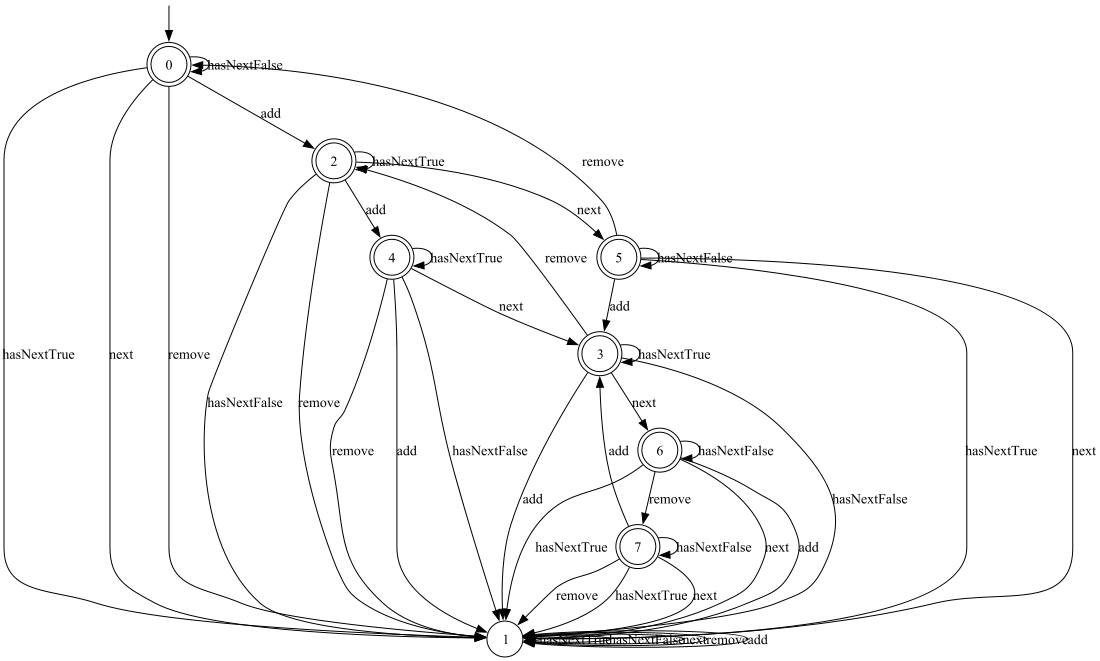
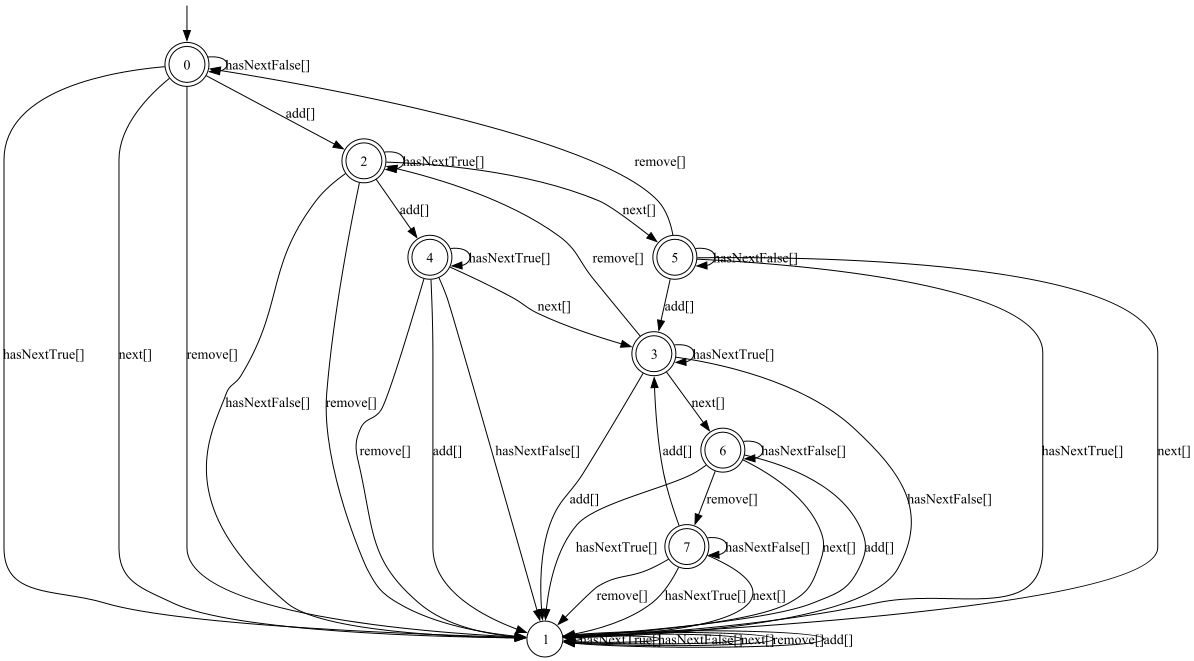
Modified to handle RALib Parameterized Symbols

diff --git a/src/main/java/org/example/controller/Controller.java b/src/main/java/org/example/controller/Controller.java
@@ -5,50 +5,47 @@ import de.learnlib.algorithms.lstar.dfa.ClassicLStarDFABuilder;
 import de.learnlib.api.oracle.MembershipOracle;
 import de.learnlib.oracle.equivalence.DFAWpMethodEQOracle;
 import de.learnlib.api.query.DefaultQuery;
+import de.learnlib.ralib.words.PSymbolInstance;
 import guru.nidi.graphviz.engine.Format;
 import guru.nidi.graphviz.engine.Graphviz;
 import net.automatalib.words.Alphabet;
-import net.automatalib.words.impl.GrowingMapAlphabet;
 import net.automatalib.automata.fsa.DFA;
 import net.automatalib.serialization.dot.GraphDOT;
 import org.checkerframework.checker.nullness.qual.Nullable;
-import org.example.model.Function;
+import org.example.model.Functions;
 import org.example.model.IterOracle;
-import org.example.view.MainFrame;
 
 import java.io.File;
 import java.io.FileWriter;
 import java.io.IOException;
-import java.util.Arrays;
 
 public class Controller {
 
-    private final Alphabet<Function> alphabet;
+    private final Alphabet<PSymbolInstance> alphabet;
     //private final MainFrame frame;
     public Controller() {
-        this.alphabet = new GrowingMapAlphabet<>();
-        this.alphabet.addAll(Arrays.asList(Function.values()));
+        this.alphabet = new Functions().getAlphabet();
         //this.frame = new MainFrame(this);
     }
 
-    public Alphabet<Function> getAlphabet() {
+    public Alphabet<PSymbolInstance> getAlphabet() {
         return alphabet;
     }
 
-    private DFA<?, Function> learn(MembershipOracle.DFAMembershipOracle<Function> mqOracle) {
+    private DFA<?, PSymbolInstance> learn(MembershipOracle.DFAMembershipOracle<PSymbolInstance> mqOracle) {
         // construct L* instance
-        ClassicLStarDFA<Function> learner =
-                new ClassicLStarDFABuilder<Function>().withAlphabet(alphabet) // input alphabet
+        ClassicLStarDFA<PSymbolInstance> learner =
+                new ClassicLStarDFABuilder<PSymbolInstance>().withAlphabet(alphabet) // input alphabet
                         .withOracle(mqOracle) // membership oracle
                         .create();
-        DFAWpMethodEQOracle<Function> eqOracle = new DFAWpMethodEQOracle<>(mqOracle, 2);
+        DFAWpMethodEQOracle<PSymbolInstance> eqOracle = new DFAWpMethodEQOracle<>(mqOracle, 2);
 
         learner.startLearning();
         while (true) {
-            DFA<?, Function> hyp = learner.getHypothesisModel();
+            DFA<?, PSymbolInstance> hyp = learner.getHypothesisModel();
 
             // search for counterexample
-            @Nullable DefaultQuery<Function, Boolean> o = eqOracle.findCounterExample(hyp, alphabet);
+            @Nullable DefaultQuery<PSymbolInstance, Boolean> o = eqOracle.findCounterExample(hyp, alphabet);
             System.out.println("Counterexample: " + o);
 
             // no counter example -> learning is done
@@ -61,7 +58,7 @@ public class Controller {
         return learner.getHypothesisModel();
     }
 
-    private void showResults(DFA<?, Function> dfa, String file) {
+    private void showResults(DFA<?, PSymbolInstance> dfa, String file) {
         // report results
         System.out.println("-------------------------------------------------------");
         System.out.println();
@@ -79,7 +76,7 @@ public class Controller {
     public void start() {
         showResults(learn(new IterOracle()), "exception");
 
-        //final IterOracle iterOracle = new IterOracle();
+        final IterOracle iterOracle = new IterOracle();
         //iterOracle.setSilentFailAddTrue();
         //showResults(learn(iterOracle), "silent");
 

diff --git a/src/main/java/org/example/controller/Runner.java b/src/main/java/org/example/controller/Runner.java
@@ -2,6 +2,9 @@ package org.example.controller;
 
 import de.learnlib.api.oracle.EquivalenceOracle;
 import de.learnlib.api.query.DefaultQuery;
+import de.learnlib.oracle.equivalence.DFARandomWMethodEQOracle;
+import de.learnlib.oracle.equivalence.RandomWordsEQOracle;
+import de.learnlib.oracle.equivalence.mealy.RandomWalkEQOracle;
 import de.learnlib.ralib.automata.RegisterAutomaton;
 import de.learnlib.ralib.data.Constants;
 import de.learnlib.ralib.data.DataType;
@@ -23,7 +26,6 @@ import de.learnlib.ralib.tools.theories.IntegerEqualityTheory;
 import de.learnlib.ralib.words.InputSymbol;
 import de.learnlib.ralib.words.PSymbolInstance;
 import de.learnlib.ralib.words.ParameterizedSymbol;
-//import org.example.model.IterRAOracle;
 import org.example.rahelper.RandomWalk;
 
 import java.io.File;
@@ -34,10 +36,8 @@ import java.util.Random;
 
 public class Runner {
 
-    /*public static final InputSymbol ADD = new InputSymbol("add", new DataType[]{doubleType});
-    public static final InputSymbol NEXT = new InputSymbol("next", new DataType[]{doubleType});
 
-    private Hypothesis ralib_learn() {
+    /*private Hypothesis ralib_learn() {
         Map<DataType, Theory> teachers = new LinkedHashMap<>();
         DataType dataType = new DataType("INTEGER", Integer.class);
         teachers.put(dataType, new IntegerEqualityTheory(dataType));
@@ -53,11 +53,12 @@ public class Runner {
             SDTLogicOracle slo = new MultiTheorySDTLogicOracle(consts, solver);
 
             TreeOracleFactory hypFactory = (RegisterAutomaton hyp) ->
-                    new MultiTheoryTreeOracle(..., teachers,
+                    new MultiTheoryTreeOracle(dwOracle, teachers,
                             new Constants(), solver);
 
-            RaLearningAlgorithm learner = new RaStar(mto, hypFactory, slo, consts, I_PUSH, I_POP);
+            RaLearningAlgorithm learner = new RaStar(mto, hypFactory, slo, consts, false, I_PUSH, I_POP);
             DefaultQuery<PSymbolInstance, Boolean> ce = null;
+
             IOEquivalenceOracle eqOracle = new RandomWalk(random, ioCache,
                     0.1, // reset probability
                     0.8, // prob. of choosing a fresh data value
@@ -65,7 +66,8 @@ public class Runner {
                     6, // max depth
                     teachers,
                     consts, Arrays.asList(I_PUSH, I_POP));
-
+//            Use instead
+            RandomWordsEQOracle
 
             int check = 0;
             while (check < 100) {
@@ -91,19 +93,19 @@ public class Runner {
 
     }*/
 
-    private static void ralib_learn() {
+    /*private static void ralib_learn() {
         ClassAnalyzer analyzer = new ClassAnalyzer();
         try {
             analyzer.setup(new Configuration(new File("config")));
             analyzer.run();
         } catch (Exception e) {
-            throw new RuntimeException(e);
+            throw new RuntimeException(e);⁄
         }
-    }
+    }*/
 
     public static void main(String[] args) {
         Controller app = new Controller();
         app.start();
-        ralib_learn();
+//        ralib_learn();
     }
 }

diff --git a/src/main/java/org/example/model/IterOracle.java b/src/main/java/org/example/model/IterOracle.java
@@ -1,13 +1,16 @@
 package org.example.model;
 
 
-import de.learnlib.api.oracle.SingleQueryOracle.SingleQueryOracleDFA;
-import net.automatalib.words.Word;
+import de.learnlib.api.oracle.MembershipOracle;
+import de.learnlib.api.query.Query;
+import de.learnlib.ralib.words.PSymbolInstance;
 
+import java.util.Collection;
 import java.util.NoSuchElementException;
 
-public class IterOracle implements SingleQueryOracleDFA<Function> {
+public class IterOracle implements MembershipOracle.DFAMembershipOracle<PSymbolInstance> {
 
+    private Functions functions = new Functions();
     private boolean silentFailAdd = false;
     public void setSilentFailAddTrue() {
         this.silentFailAdd = true;
@@ -19,8 +22,9 @@ public class IterOracle implements SingleQueryOracleDFA<Function> {
         this.iterator = new BoundedIterator<>();
     }
 
-    private Boolean step(Function function) {
-        switch (function) {
+    private Boolean step(PSymbolInstance function) {
+
+        switch (functions.getFunction(function)) {
             case hasNextTrue -> {
                 return this.iterator.hasNext();
             }
@@ -55,9 +59,21 @@ public class IterOracle implements SingleQueryOracleDFA<Function> {
     }
 
     @Override
-    public Boolean answerQuery(Word<Function> prefix, Word<Function> suffix) {
+    public void processQuery(Query<PSymbolInstance, Boolean> query) {
         iterator.reset();
-        return prefix.concat(suffix).stream()
-                .allMatch(this::step);
+        for (PSymbolInstance input : query.getInput().asList()) {
+            if (!step(input)) {
+                query.answer(false);
+                return;
+            }
+        }
+        query.answer(true);
+    }
+
+    @Override
+    public void processQueries(Collection<? extends Query<PSymbolInstance, Boolean>> collection) {
+        for (Query<PSymbolInstance, Boolean> query : collection) {
+            processQuery(query);
+        }
     }
 }

diff --git a/src/main/java/org/example/model/Functions.java b/src/main/java/org/example/model/Functions.java
@@ -1,0 +1,42 @@
+package org.example.model;
+
+import de.learnlib.ralib.words.PSymbolInstance;
+import de.learnlib.ralib.words.ParameterizedSymbol;
+import net.automatalib.words.Alphabet;
+import net.automatalib.words.impl.GrowingMapAlphabet;
+
+import java.util.LinkedHashMap;
+import java.util.Map;
+
+class FunctionSymbol extends ParameterizedSymbol {
+    public FunctionSymbol(String name) {
+        super(name);
+    }
+}
+
+public class Functions {
+    private final Map<PSymbolInstance, Function> map = new LinkedHashMap<>();
+    public enum Function {
+        hasNextTrue,
+        hasNextFalse,
+        next,
+        remove,
+        add
+    }
+    public Functions() {
+        for (Function f : Function.values()) {
+            map.put(new PSymbolInstance(new FunctionSymbol(f.toString())), f);
+        }
+    }
+
+    public Function getFunction(PSymbolInstance i) {
+        return map.get(i);
+    }
+
+    public Alphabet<PSymbolInstance> getAlphabet() {
+        Alphabet<PSymbolInstance> alphabet = new GrowingMapAlphabet<>();
+        alphabet.addAll(map.keySet().stream().toList());
+        return alphabet;
+    }
+
+};

diff --git a/src/main/java/org/example/view/MainPanel.java b/src/main/java/org/example/view/MainPanel.java
@@ -1,14 +1,12 @@
 package org.example.view;
 
+import de.learnlib.ralib.words.PSymbolInstance;
 import org.example.controller.Controller;
-import org.example.model.Function;
 
 import javax.swing.*;
 import java.awt.*;
 import java.awt.event.ActionEvent;
-import java.awt.event.ActionListener;
 import java.util.ArrayList;
-import java.util.List;
 import java.util.Objects;
 import java.util.Vector;
 
@@ -31,7 +29,7 @@ public class MainPanel extends JPanel {
         this.img = new JLabel(new ImageIcon("out.png"));
         this.wordsPanel = new JPanel(new WrapLayout());
         this.words = new ArrayList<>();
-        this.comboBox = new JComboBox<>(new Vector<>(app.getAlphabet().stream().map(Enum::toString).toList()));
+        this.comboBox = new JComboBox<>(new Vector<>(app.getAlphabet().stream().map(PSymbolInstance::toString).toList()));
         this.counterexampleTrue = new JButton("True");
         this.counterexampleTrue.setBackground(Color.green);
         this.counterexampleTrue.setOpaque(true);

diff --git a/src/main/java/org/example/model/BoundedList.java b/src/main/java/org/example/model/BoundedList.java
@@ -22,6 +22,14 @@ public class BoundedList<T> implements Iterable<T> {
         list.add(elem);
     }
 
+    public void addDummy(T elem) {
+        list.add(elem);
+    }
+
+    public int size() {
+        return list.size();
+    }
+
     @Override
     public Iterator<T> iterator() {
         return list.iterator();
